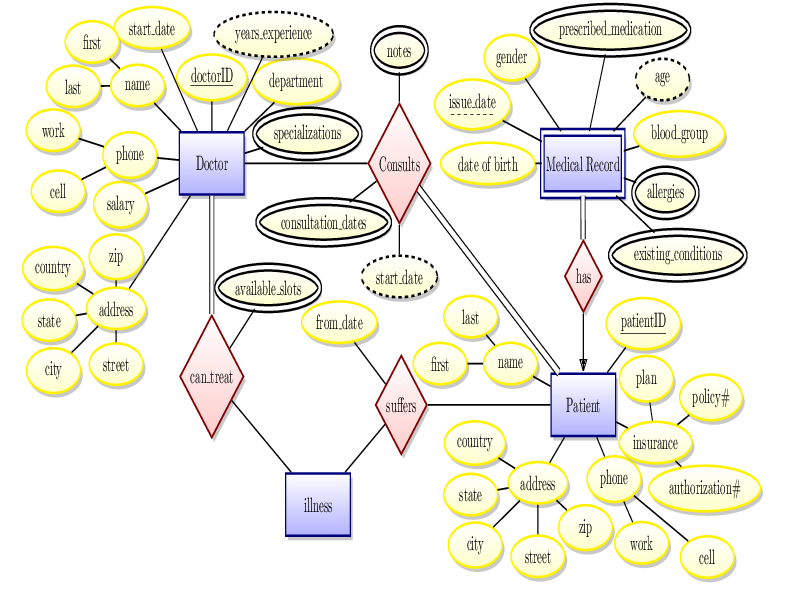
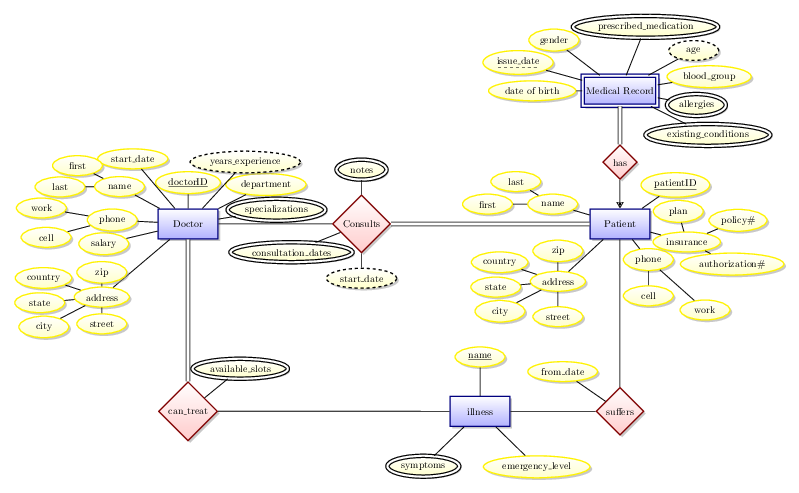
fix some changes

diff --git a/docs/1. ER-Diagram/ER-Diagram.tex b/docs/1. ER-Diagram/ER-Diagram.tex
@@ -117,24 +117,25 @@
 \node[relationship] (suf) [below =5.2cm of pat] {suffers} edge (pat);
 	\node[attribute] (suff)[above left= 1cm of suf] {from\_date} edge (suf);
 
-<<<<<<< HEAD
-\node[entity] (ill) [below left = 1cm of suf,xshift=-0.5cm] {illness} edge (suf);
-	\node[attribute] (ille) [left= 1 cm of ill, draw = black] {emergency\_level} edge (ill);
-	\node[multi attribute] (ills) [above= 1 cm of ill, draw = black] {symptoms} edge (ill);
-\node[relationship] (tr) [below= 2 cm of doc] {can\_treat} edge [total] (doc) edge (ill);
-=======
+%<<<<<<< HEAD
+%\node[entity] (ill) [below left = 1cm of suf,xshift=-0.5cm] {illness} edge (suf);
+%	\node[attribute] (ille) [left= 1 cm of ill, draw = black] {emergency\_level} edge (ill);
+%	\node[multi attribute] (ills) [above= 1 cm of ill, draw = black] {symptoms} edge (ill);
+%\node[relationship] (tr) [below= 2 cm of doc] {can\_treat} edge [total] (doc) edge (ill);
+%=======
 % illness entity
 \node[entity] (ill) [left = 3cm of suf] {illness} edge (suf);
-
-	% symptom attribute - primary key
-	\node[attribute] (symt) [below=1cm  of ill,xshift=-2cm] {\key{symptom}} edge (ill);
+	% name
+	\node[attribute] (illnm) [above=1cm  of ill] {\key{name}} edge (ill);
+	% symptom attribute 
+	\node[multi attribute] (symt) [below=1cm  of ill,xshift=-2cm, draw = black] {symptoms} edge (ill);
 
 	% symptom attribute - primary key
 	\node[attribute] (eml) [below=1cm  of ill,xshift=2cm] {emergency\_level} edge (ill);
 
 % can treat relationship
 \node[relationship] (tr) [below= 5 cm of doc] {can\_treat} edge [total] (doc) edge (ill);
->>>>>>> 441fec2ba41ce055e8459fc7965762c43412921b
+%>>>>>>> 441fec2ba41ce055e8459fc7965762c43412921b
 	\node[multi attribute] (trts) [above right=1cm of tr,draw=black,xshift=-0.6cm] {available\_slots} edge (tr);
 
 \end{tikzpicture}
